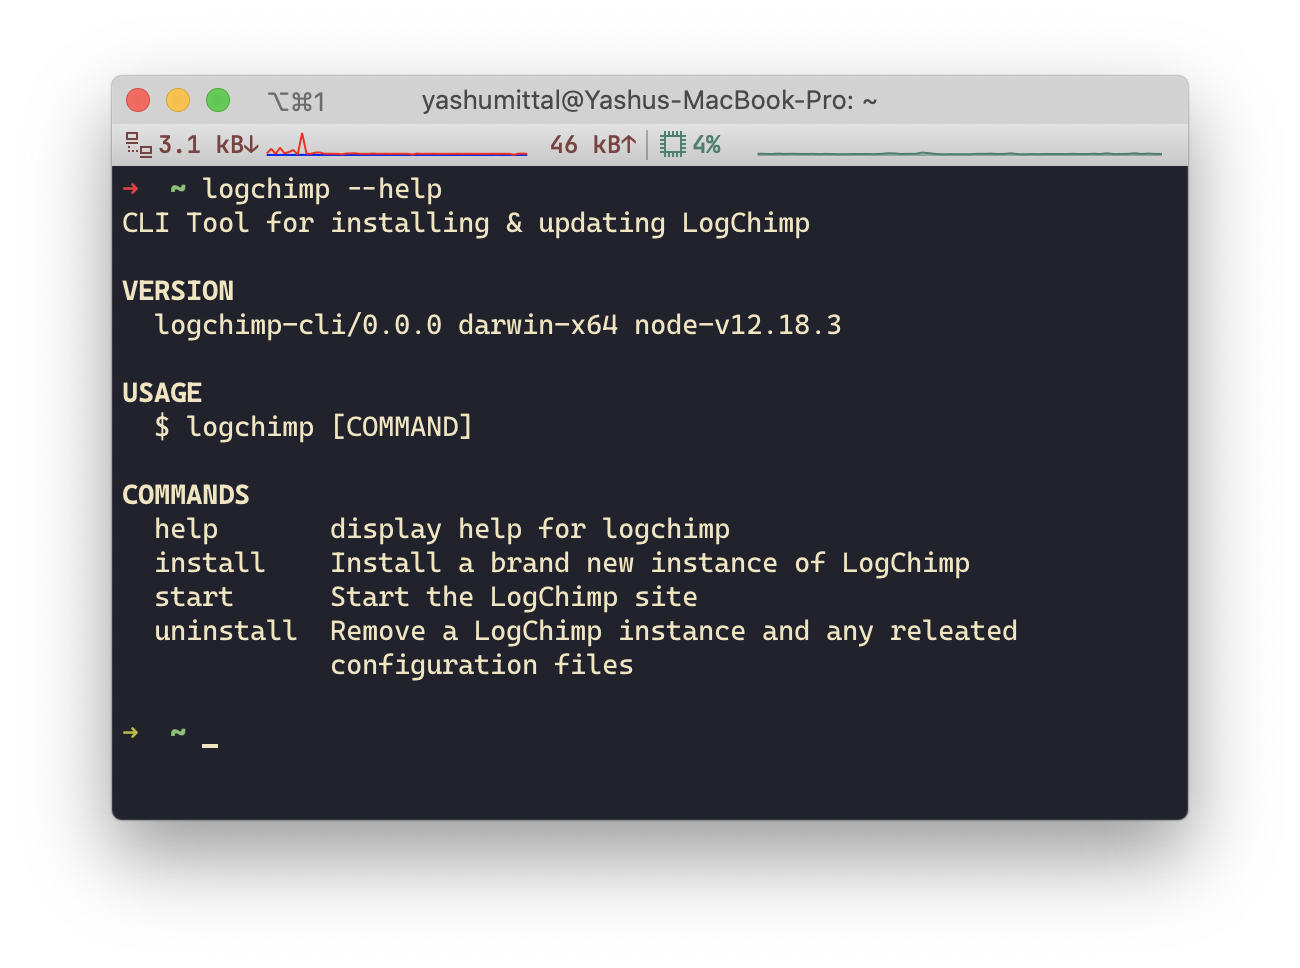
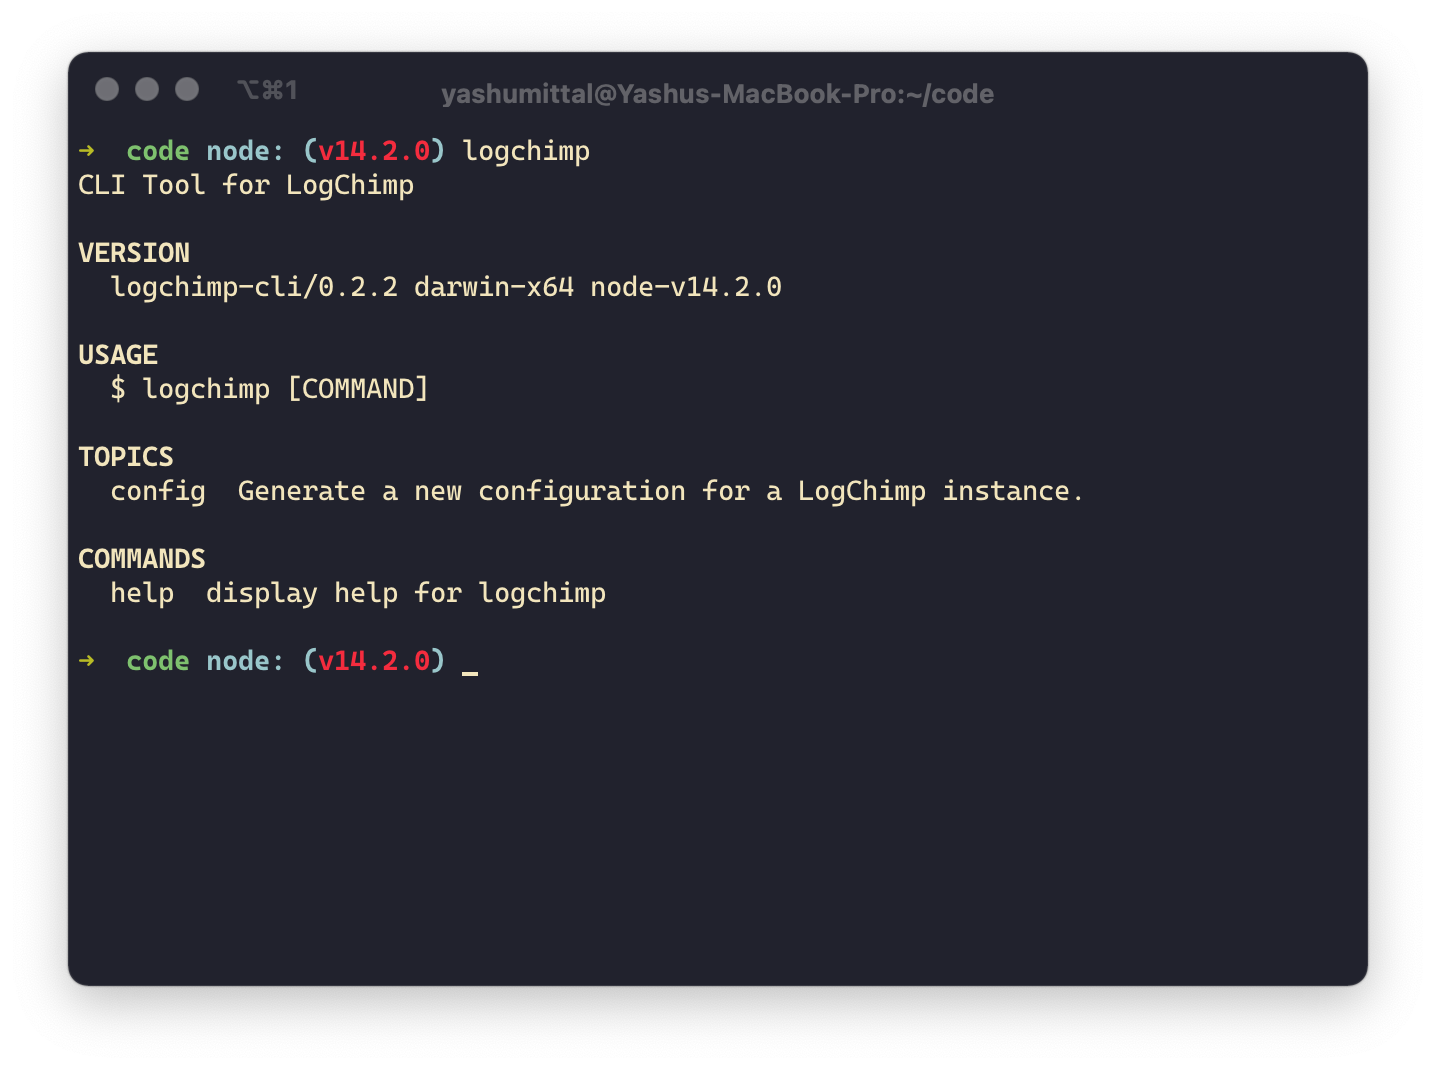
remove install, start & uninstall commands (#94)
* remove install, start & uninstall commands

* update logchimp CLI screenshot

Changed region(s): [[0.0308, 0.031, 0.9538, 0.9607], [0.5538, 0.4339, 0.7385, 0.4649], [0.6154, 0.3099, 0.6462, 0.3409]]

diff --git a/README.md b/README.md
@@ -33,13 +33,7 @@
 	</a>
 </p>
 
-**NOTE:** If you're using v0.2.0, don't use `install`, `start`, `uninstall` commands, we're working on major changes _(which will be released in v0.3.0)_. You can look for [alternatives ways to deploy LogChimp](https://logchimp.codecarrot.net/docs/install).
-
-## Basic setup
-
-- `npm install -g logchimp-cli`
-- `logchimp install [flags]` _(for production)_
-- `logchimp install --local` _(for a local setup, useful for development/testing)_
+**NOTE:** You can look for [alternatives ways to deploy LogChimp](https://logchimp.codecarrot.net/docs/install).
 
 ## Project Goals
 
